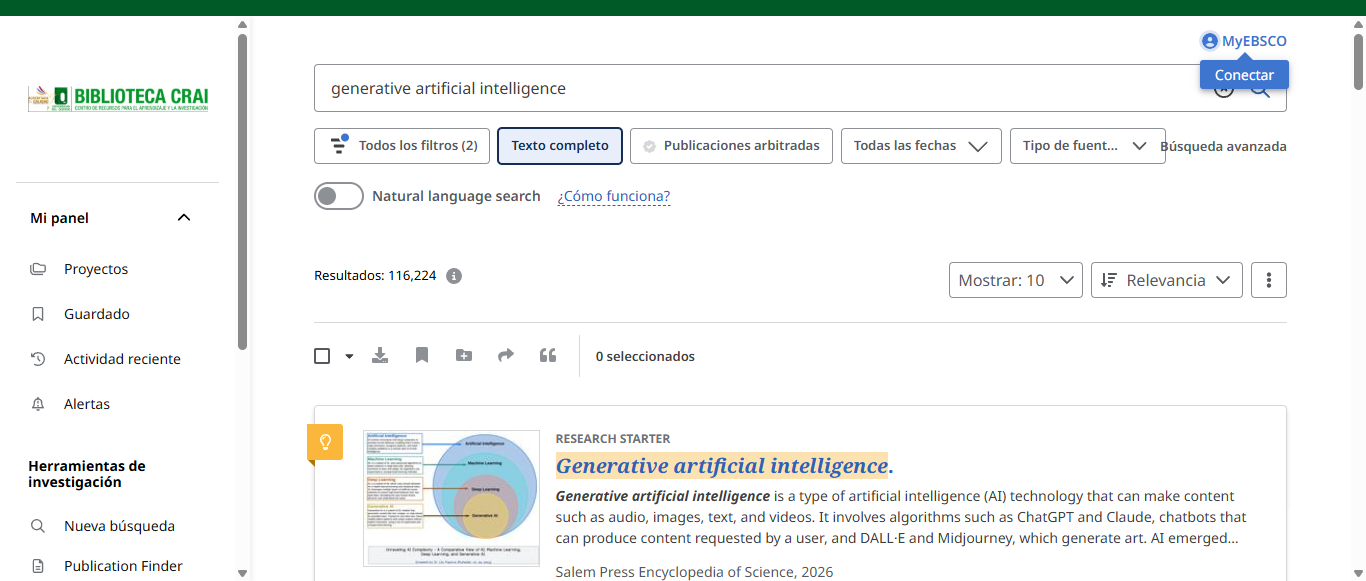
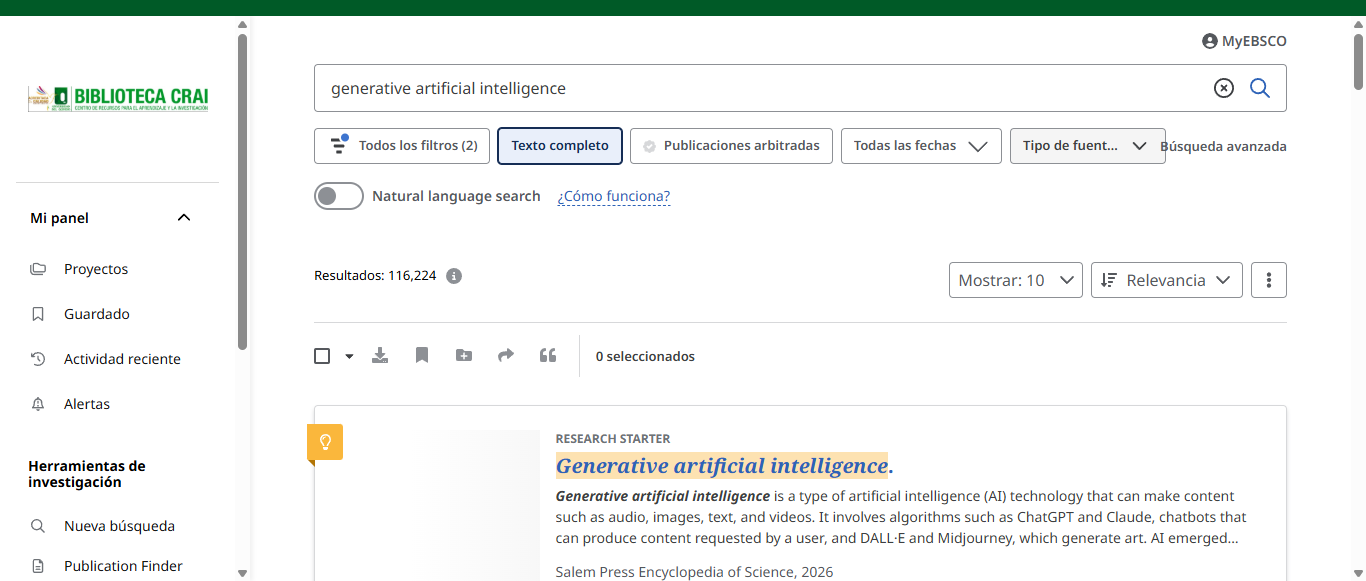
cambios seguridad

Changed region(s): [[0.246, 0.7435, 0.3997, 0.9914], [0.8609, 0.062, 0.9531, 0.1859]]

diff --git a/src/data_collection/downloader.py b/src/data_collection/downloader.py
@@ -332,18 +332,25 @@ class DataDownloader:
 
         select_all_option = None
         for attempt in range(5):
-            try:
-                select_all_option = self.driver.find_element(By.ID, "downshift-0-item-0")
+            for selector in [
+                (By.ID, "downshift-0-item-0"),
+                (By.CSS_SELECTOR, "li[data-auto*='select-all-on-page']"),
+                (By.XPATH, "//*[@role='option' and (contains(translate(., 'TODOS', 'todos'), 'tod') or contains(translate(., 'ALL', 'all'), 'all'))]"),
+                (By.CSS_SELECTOR, "li[id^='downshift-'][id$='-item-0']")
+            ]:
+                try:
+                    elements = self.driver.find_elements(selector[0], selector[1])
+                    for el in elements:
+                        if el.is_displayed():
+                            select_all_option = el
+                            break
+                    if select_all_option:
+                        break
+                except Exception:
+                    pass
+                    
+            if select_all_option:
                 break
-            except Exception:
-                pass
-            try:
-                select_all_option = self.driver.find_element(
-                    By.CSS_SELECTOR, "li[data-auto='arrow-dropdown-select-all-on-page-button']"
-                )
-                break
-            except Exception:
-                pass
             time.sleep(1)
 
         if select_all_option is None:
@@ -532,7 +539,12 @@ class DataDownloader:
             WebDriverWait(self.driver, 20).until(EC.url_contains("accounts.google.com"))
             print("On Google page")
             email_field = WebDriverWait(self.driver, 10).until(EC.presence_of_element_located((By.ID, "identifierId")))
-            email_field.send_keys("sebastiand.espanag@uqvirtual.edu.co" + Keys.RETURN)
+            
+            google_email = os.environ.get("GOOGLE_EMAIL")
+            if not google_email:
+                raise ValueError("ERROR CRÍTICO: No se encontró GOOGLE_EMAIL configurado en el archivo .env")
+            email_field.send_keys(google_email + Keys.RETURN)
+            
             print("Email entered and submitted, waiting 3 seconds...")
             time.sleep(3)
             print("Looking for password field...")
@@ -556,8 +568,13 @@ class DataDownloader:
                 print("ERROR: Could not find password field after 30 seconds!")
                 print("Current URL: " + self.driver.current_url)
                 return []
+                
+            google_password = os.environ.get("GOOGLE_PASSWORD")
+            if not google_password:
+                raise ValueError("ERROR CRÍTICO: No se encontró GOOGLE_PASSWORD configurado en el archivo .env")
+                
             print("Password field found! Entering password...")
-            password_field.send_keys("geamx100familia007")
+            password_field.send_keys(google_password)
             print("Password typed. Pressing Enter...")
             password_field.send_keys(Keys.RETURN)
             print("Password submitted")
@@ -661,7 +678,12 @@ class DataDownloader:
             WebDriverWait(self.driver, 20).until(EC.url_contains("accounts.google.com"))
             print("On Google page")
             email_field = WebDriverWait(self.driver, 10).until(EC.presence_of_element_located((By.ID, "identifierId")))
-            email_field.send_keys("sebastiand.espanag@uqvirtual.edu.co" + Keys.RETURN)
+            
+            google_email_ieee = os.environ.get("GOOGLE_EMAIL")
+            if not google_email_ieee:
+                raise ValueError("ERROR CRÍTICO: No se encontró GOOGLE_EMAIL configurado en el archivo .env")
+            email_field.send_keys(google_email_ieee + Keys.RETURN)
+            
             print("Email entered and submitted, waiting 3 seconds...")
             time.sleep(3)
             print("Looking for password field...")
@@ -685,8 +707,13 @@ class DataDownloader:
                 print("ERROR: Could not find password field after 30 seconds!")
                 print("Current URL: " + self.driver.current_url)
                 return []
+                
+            google_password_ieee = os.environ.get("GOOGLE_PASSWORD")
+            if not google_password_ieee:
+                raise ValueError("ERROR CRÍTICO: No se encontró GOOGLE_PASSWORD configurado en el archivo .env")
+                
             print("Password field found! Entering password...")
-            password_field.send_keys("geamx100familia007")
+            password_field.send_keys(google_password_ieee)
             print("Password typed. Pressing Enter...")
             password_field.send_keys(Keys.RETURN)
             print("Password submitted")

diff --git a/src/main.py b/src/main.py
@@ -2,6 +2,9 @@ import os
 import sys
 sys.path.insert(0, 'src')
 
+from dotenv import load_dotenv
+load_dotenv()
+
 from data_collection.downloader import download_all_data
 from data_collection.parser import parse_file
 from preprocessing.deduplicator import deduplicate_articles
